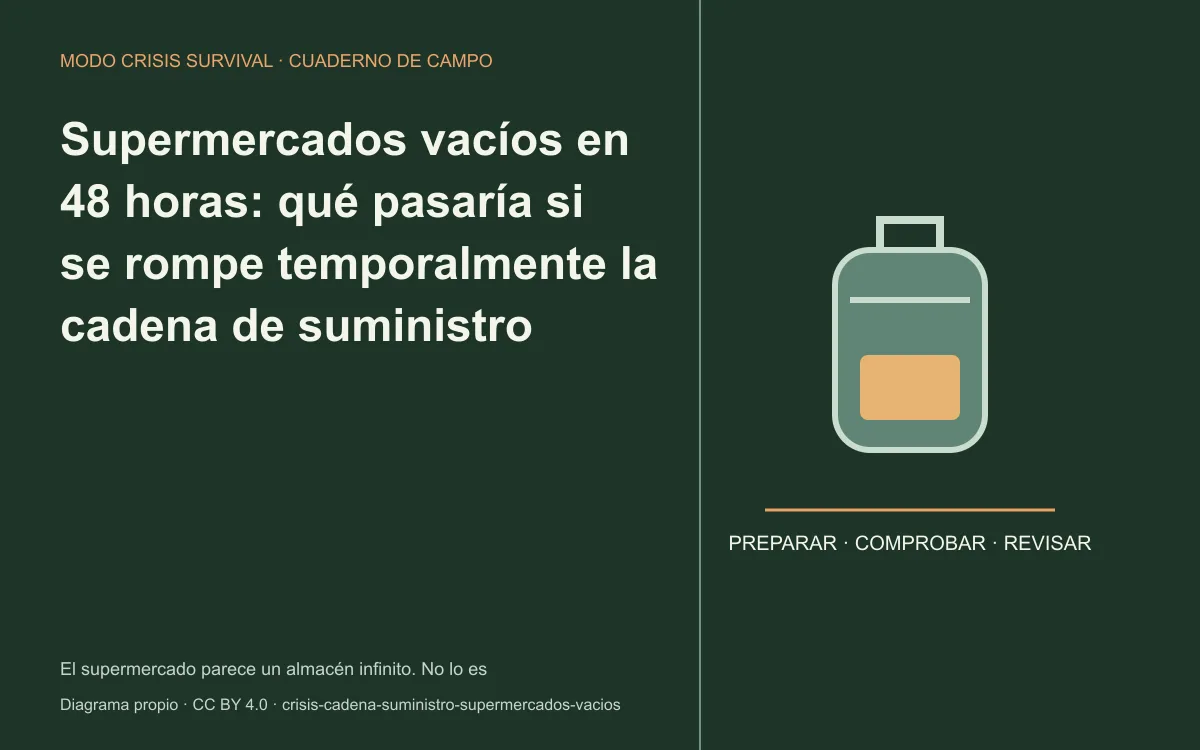
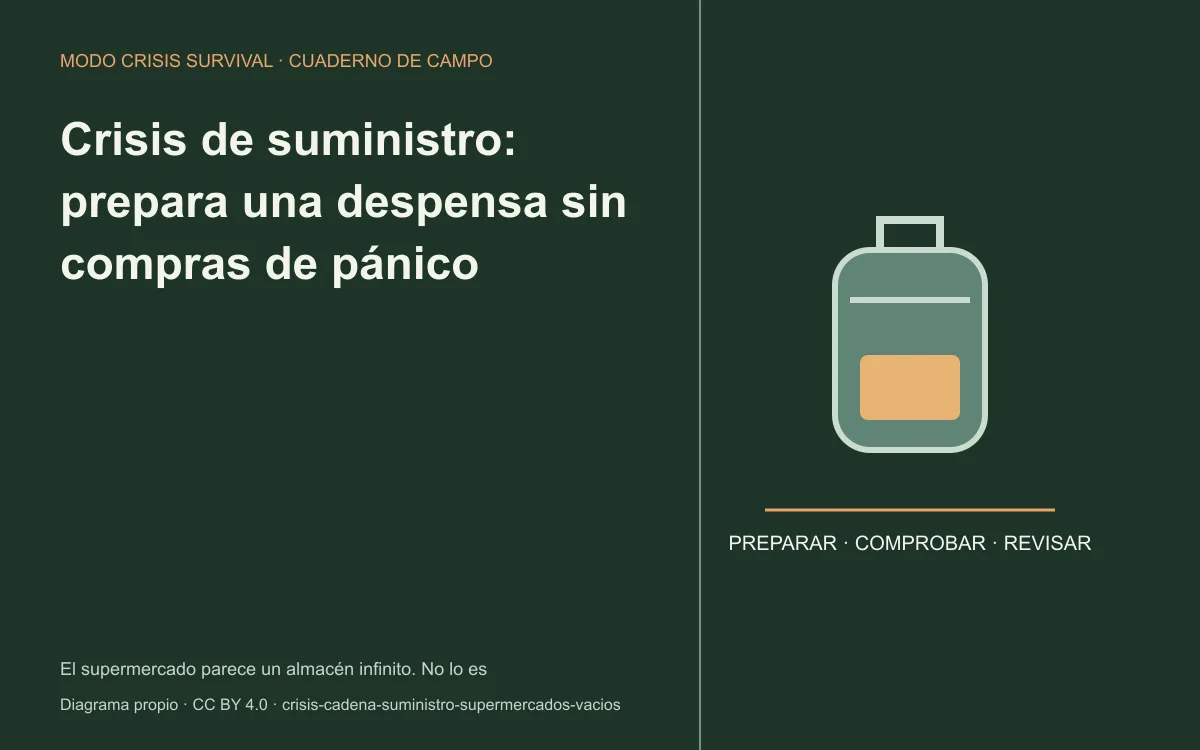
Improve eight continuity guides and replace predictive headlines

Changed region(s): [[0.0308, 0.3373, 0.555, 0.46], [0.0308, 0.2453, 0.5242, 0.3067], [0.0308, 0.1533, 0.5242, 0.2147]]

diff --git a/src/content/step-two-continuity.ts b/src/content/step-two-continuity.ts
@@ -1,0 +1,106 @@
+import type { BlogSection } from './blog';
+import type { Expansion } from './growth-revisions';
+const s = (heading: string, body: string, extra: Partial<BlogSection> = {}): BlogSection => ({ heading, body, ...extra });
+export const stepTwoContinuity: Record<string, Expansion> = {
+  'ciberataque-masivo-servicios-esenciales': {
+    description: 'Ciberataque o caída de servicios: prepara contactos, recuperación y alternativas offline. No confundas una avería con un ataque confirmado.',
+    sections: [
+      s('Una copia que existe no siempre puede recuperarse', 'Guardar archivos en otra carpeta del mismo dispositivo no elimina todas sus dependencias. Describe qué protege la copia y qué necesita para abrirse: soporte, cuenta, clave y programa. No concentres documentos sensibles y credenciales en un archivo sin una protección apropiada.\n\nPrueba recuperación con un documento inventado y conserva el resultado. Una sincronización puede reflejar cambios o borrados; no la presentes automáticamente como copia independiente. Lee la documentación del servicio y prepara una alternativa adecuada a la información que realmente necesitas, no a toda tu vida digital.'),
+      s('Recuperación de cuentas antes de una incidencia', 'Revisa los métodos que el proveedor permite y qué ocurriría si pierdes el dispositivo habitual. No desactives autenticación multifactor para simplificar la emergencia. Organiza recuperación con las instrucciones del servicio y protege los elementos que permiten acceder.\n\nNo envíes códigos o contraseñas a alguien que contacte diciendo ser soporte. Una caída real puede dar credibilidad a un mensaje falso. Accede desde tu canal conocido y consulta el procedimiento vigente. La preparación reduce incertidumbre, pero no convierte en confiable cualquier ayuda que prometa recuperar la cuenta inmediatamente.'),
+      s('Caso ficticio: el mismo teléfono abre y recupera todo', 'La familia necesita un documento, pero el acceso y la recuperación dependen del teléfono perdido. El archivo estaba guardado en la nube y parecía tener una copia segura. La práctica revela que no se había comprobado la cadena de recuperación.\n\nUsa un archivo ficticio para revisar esa dependencia en condiciones normales. No bloquees una cuenta real, no elimines datos ni simules un ataque. Anota qué soporte alternativo necesitas y qué acceso debe conservar una persona autorizada. La solución no consiste en publicar contraseñas para que todos puedan entrar.'),
+      s('Ficha de dependencia digital', 'La tabla no requiere escribir secretos. Utiliza referencias mínimas y conserva el contenido protegido en un lugar apropiado.', { table: { caption: 'Servicios y alternativas comprobables', headers: ['Tarea', 'Dependencia principal', 'Alternativa que verificar'], rows: [['Contacto', 'Teléfono y acceso al directorio', 'Tarjeta mínima actualizada'], ['Documento', 'Cuenta, conexión y formato', 'Copia apropiada que abre offline'], ['Recuperación', 'Método del proveedor', 'Acceso según instrucciones'], ['Trámite', 'Plataforma disponible', 'Canal oficial y posibilidad de aplazar'], ['Información', 'Mensaje recibido', 'Origen independiente y confirmado']] } }),
+      s('Cuando vuelva el servicio, revisa antes de repetir', 'Una operación que no mostró confirmación puede necesitar consulta de estado antes de intentarla otra vez. Conserva justificantes apropiados sin divulgar datos sensibles. Si el proveedor informa de un incidente de seguridad, sigue su procedimiento desde el canal oficial.\n\nNo cambies configuraciones al azar ni instales un supuesto reparador recibido por mensaje. Registra qué tarea quedó sin alternativa y prepara una corrección concreta. El aprendizaje útil es conocer qué acceso dependía de otro servicio, no afirmar que todo fallo fue un ataque.', { links: [{ label: 'Preparar documentos protegidos', href: '/supervivencia/documentacion-conviene-tener-disponible' }, { label: 'Plan para varios días sin Internet', href: '/supervivencia/7-dias-sin-internet' }] }),
+    ],
+    faq: [{ question: '¿Varias aplicaciones caídas prueban un ciberataque?', answer: 'No. Pueden existir otras causas o dependencias compartidas. Consulta información del proveedor y no atribuyas una causa sin confirmar.' }, { question: '¿Sincronizar es siempre tener una copia independiente?', answer: 'No. Consulta cómo funciona el servicio y prueba recuperación con información ficticia. Define qué fallo protege realmente tu alternativa.' }, { question: '¿Qué guardo en la ficha digital?', answer: 'Referencias de tareas, dependencias y alternativas, no contraseñas ni códigos. Protege lo que permite recuperar acceso.' }],
+  },
+  'crisis-cadena-suministro-supermercados-vacios': {
+    title: 'Crisis de suministro: prepara una despensa sin compras de pánico',
+    seoTitle: 'Crisis de suministro: despensa de emergencia y rotación',
+    excerpt: 'Una falta puntual no anuncia supermercados vacíos en 48 horas. Prepara comidas completas, agua y reposición gradual para las necesidades de tu hogar.',
+    description: 'Crisis de suministro: organiza una despensa rotativa con comidas completas, agua y reposición gradual, sin acaparar ni predecir tiendas vacías.',
+    sections: [
+      s('Cuenta comidas completas antes de contar paquetes', 'Escribe una propuesta para las personas que realmente comen en casa y revisa preparación, agua, utensilios y conservación. No conviertas el número de envases en días de autonomía sin comprobar cómo se utilizan. Un ingrediente puede formar parte de varias comidas sin cubrir por sí solo una necesidad.\n\nAdapta alimentos a preferencias, alergias y necesidades particulares. No pruebes una dieta de emergencia nueva durante una incidencia. Para requerimientos individuales, busca orientación profesional. La despensa debería integrarse en la vida cotidiana y no exigir que la familia tolere productos que nunca utiliza.'),
+      s('Presupuesto gradual sin sacrificar gastos esenciales', 'Selecciona una carencia concreta y valora si puedes cubrirla al reponer la compra habitual. No necesitas un pedido masivo para empezar. Evita endeudarte o reducir otros gastos necesarios por una noticia ambigua. Una referencia de preparación no fija una cantidad comercial obligatoria.\n\nEl espacio también limita la decisión. No bloquees salidas ni guardes alimentos donde no se respetan sus condiciones. Comprar varios meses sin capacidad de conservar o rotar puede producir más desperdicio que margen. La mejora debe responder a una función que puedas mantener.'),
+      s('Caso ficticio: sobra comida seca, falta una cena viable', 'Hay pasta, legumbres secas y arroz, pero todo requiere agua y cocina que no están disponibles. La reserva parece grande; la comida prevista no puede prepararse como se había imaginado. El ejercicio consiste en descubrir esa dependencia antes, con etiquetas y una hoja.\n\nAñade una alternativa apropiada que no dependa de ese mismo paso y revisa el material para abrirla. No resuelvas el ejemplo llevando un hornillo exterior al interior de la vivienda. Tener ingredientes no obliga a improvisar una fuente de calor peligrosa.'),
+      s('Registro de reposición por uso', 'Anota cantidades reales y productos adecuados para tu hogar. No fija raciones universales ni demuestra suficiencia nutricional.', { table: { caption: 'Una despensa que forma parte del consumo habitual', headers: ['Registro', 'Pregunta', 'Acción'], rows: [['Comida prevista', '¿Se puede preparar completa?', 'Revisar dependencias'], ['Producto usado', '¿Cuánto queda realmente?', 'Actualizar y reponer según plan'], ['Fecha y conservación', '¿Qué indica la etiqueta?', 'Ordenar y revisar'], ['Necesidad particular', '¿Lo puede consumir esa persona?', 'Consulta cuando corresponda'], ['Agua y utensilios', '¿Están disponibles?', 'No contarlos por suposición']] } }),
+      s('Reponer después de una incidencia no significa competir', 'Comprueba qué servicio o producto está afectado y qué comunicación responsable existe. Una foto de una estantería no demuestra una falta nacional ni una duración prevista. Evita compartir una predicción que el proveedor no haya confirmado.\n\nSi hay instrucciones sobre compra o reparto, respétalas. Reponer la reserva de manera razonable y progresiva reduce necesidad de compras urgentes posteriores. No persigas el objetivo de llenar todos los espacios ni conviertas una carencia puntual en permiso para acaparar.'),
+      s('La rotación funciona si alguien sabe cómo actualizarla', 'Acuerda quién registra cambios y dónde está el inventario. Si solo una persona lo entiende, otra puede comprar duplicados o consumir recursos que se daban por disponibles. Simplifica categorías y no conviertas la despensa en una tarea administrativa interminable.\n\nDespués de un cambio familiar o de alimentación, revisa las comidas previstas. La lista debe corresponder a las personas actuales. El resultado útil es un margen conocido y mantenible, no una colección de productos etiquetados como supervivencia.', { links: [{ label: 'Alimentos durante un apagón', href: '/supervivencia/gestion-alimentos-sin-electricidad' }, { label: 'Organizar la reserva de agua', href: '/supervivencia/como-guardar-agua-emergencias' }] }),
+    ],
+    faq: [{ question: '¿Hay un plazo universal para que se vacíen supermercados?', answer: 'No. Depende de productos, existencias, demanda y alternativas. Este artículo no anuncia un desabastecimiento en 48 horas.' }, { question: '¿Cómo empiezo con poco presupuesto?', answer: 'Identifica una carencia y valora cubrirla en la reposición habitual sin sacrificar gastos esenciales. Comprueba comidas completas y conservación.' }, { question: '¿Muchos paquetes equivalen a autonomía?', answer: 'No por sí solos. Revisa personas, preparación, agua, utensilios y necesidades particulares.' }],
+  },
+  'desinformacion-emergencias-deepfakes-alertas-falsas': {
+    description: 'Desinformación en emergencias: revisa origen, fecha, zona e instrucción. Ejemplos de mensajes dudosos y cómo corregir un reenvío sin crear rumores.',
+    sections: [
+      s('Guarda el contexto que permite verificar', 'Una captura recortada puede perder fecha, autor y ámbito. Antes de compartir un mensaje dudoso, busca la publicación responsable y conserva el enlace completo cuando exista. No añadas una urgencia que el comunicado no contiene ni cambies una recomendación por una orden.\n\nSi no puedes confirmar origen, describe esa limitación. Decir «no está verificado» no vuelve inocuo reenviarlo masivamente. Una solicitud de desplazamiento, dinero o datos merece especial cuidado. Utiliza un canal conocido para contrastar, sin retrasar protección cuando hay peligro inmediato.'),
+      s('Ejemplo ficticio: tres mensajes, una sola fuente', 'Un audio llega de un familiar, un grupo vecinal y una cuenta de red social. Parece tener tres confirmaciones. Al revisar, los tres copian el mismo contenido anónimo. No has encontrado fuentes independientes, solo tres vías de distribución.\n\nPide el comunicado original y comprueba ámbito y hora. Si existe una instrucción oficial auténtica y urgente, no esperes a que circulen más versiones para atenderla. La verificación ayuda a distinguir mensajes dudosos; no debe convertirse en una regla para ignorar las autoridades.'),
+      s('Una corrección breve puede frenar la repetición', 'Si compartiste información incorrecta, avisa a las mismas personas con una explicación clara y la fuente responsable cuando esté disponible. Evita repetir íntegro el contenido alarmista como título de la corrección. No culpes a quien lo recibió ni finjas que nunca lo enviaste.\n\nLa práctica preventiva consiste en revisar un mensaje ficticio en casa y explicar qué falta. No generes una falsa alerta para ver cuántas personas la creen. El objetivo es reducir ruido y mejorar acceso a instrucciones, no poner a prueba a familiares con un engaño.', { links: [{ label: 'Conocer una orden de confinamiento', href: '/supervivencia/confinamiento-emergencia-casa-que-hacer' }, { label: 'Preparar información sin conexión', href: '/supervivencia/7-dias-sin-internet' }] }),
+    ],
+    faq: [{ question: '¿Tres reenvíos cuentan como tres fuentes?', answer: 'No cuando copian el mismo origen. Busca el comunicado responsable y distingue distribución de confirmación independiente.' }, { question: '¿Debo esperar dos fuentes para atender una alerta oficial?', answer: 'No retrases una instrucción urgente auténtica ni protección ante peligro inmediato. La comprobación se dirige a mensajes dudosos.' }, { question: '¿Cómo corrijo un mensaje falso que reenvié?', answer: 'Comunica la corrección a quienes lo recibieron y enlaza la fuente responsable cuando exista. No amplifiques de nuevo la afirmación alarmista.' }],
+  },
+  'primeras-24-horas-gran-emergencia': {
+    title: 'Primeras 24 horas de una emergencia: prioridades y plan familiar',
+    seoTitle: 'Primeras 24 horas de una emergencia: qué priorizar',
+    description: 'Primeras 24 horas de una emergencia: peligro, personas, instrucciones y recursos. La cronología es orientativa, no una orden de esperar.',
+    sections: [
+      s('Una hoja compartida evita trabajar con versiones distintas', 'Cuando sea seguro, anota hechos observados, instrucción responsable y dudas relevantes. No necesitas un diario completo del incidente. La hoja debe permitir que otra persona comprenda qué se sabe y qué decisión sigue pendiente.\n\nDistingue una hora real de un dato aproximado. Si recibes una actualización, comunica qué cambia y a qué zona se refiere. No mantengas una medida anterior por costumbre ni uses un rumor sobre duración para justificar consumo o desplazamiento. Si existe una prioridad urgente, atenderla prevalece sobre escribir.'),
+      s('Caso ficticio: el inventario dice que hay material, pero está fuera', 'La linterna fue prestada y la batería está en el coche de alguien que no ha llegado. La lista antigua sigue contando ambos. El grupo descubre que inventario y disponibilidad no eran lo mismo. No necesita una compra inmediata de todo, sino localizar funciones realmente cubiertas y buscar ayuda apropiada si falta algo esencial.\n\nEn la revisión posterior, registra material retirado y responsables de reposición. Evita contar el mismo objeto en varios lugares simultáneamente. Una práctica preventiva de acceso puede revelar ese fallo sin producir una emergencia real.'),
+      s('Organiza tareas que alguien pueda comprender', '«Encargarse de todo» no permite saber qué debe hacerse. Cuando las condiciones lo permitan, acuerda tareas concretas y apoyo: localizar un contacto, consultar un canal o comprobar un recurso. No asignes a menores decisiones de seguridad ni a una persona una maniobra que no está preparada para realizar.\n\nLas capacidades y necesidades pueden cambiar durante el incidente. Comunica una limitación sin convertirla en fracaso. Si una tarea requiere atención sanitaria o intervención profesional, no la sustituye un responsable nominal en una hoja.'),
+      s('Registro breve para una situación prolongada', 'La tabla ordena información después de atender prioridades inmediatas. No prescribe tiempos ni autoriza permanecer en un lugar inseguro.', { table: { caption: 'Información que cambia decisiones', headers: ['Dato', 'Qué distinguir', 'Siguiente comprobación'], rows: [['Personas', 'Estado conocido y ayuda necesaria', 'Comunicar cambios relevantes'], ['Lugar', 'Condición observada e instrucción', 'Seguir indicaciones actualizadas'], ['Recursos', 'Disponible y previsto', 'Acceso y reposición'], ['Comunicación', 'Mensaje confirmado o duda', 'Fuente, hora y zona'], ['Apoyo', 'Acuerdo aceptado y pendiente', 'Canal apropiado']] } }),
+      s('Después del primer día, no conviertas la duración en una garantía', 'Que hayan pasado muchas horas no demuestra que el peligro haya terminado o que el lugar sea adecuado. Revisa instrucciones y necesidades actuales. La cronología de este artículo ayuda a pensar; no obliga a esperar hasta un punto para pedir ayuda.\n\nCuando puedas revisar con calma, elige tres dificultades concretas y cómo corregirlas. Si solo registras «faltó preparación», será difícil cambiar algo. Una luz inaccesible, una copia antigua o un contacto ausente permiten acciones comprobables. El aprendizaje debe reducir decisiones pendientes, no añadir culpa.', { links: [{ label: 'Ensayo familiar sin riesgos reales', href: '/supervivencia/simulacro-familiar-emergencia-30-minutos' }, { label: 'Plan de cuidados esenciales', href: '/supervivencia/medicamentos-tratamientos-emergencias' }] }),
+    ],
+    faq: [{ question: '¿La cronología indica cuándo pedir ayuda?', answer: 'No. Es orientativa y no establece plazos de espera. Ante una emergencia o necesidad urgente utiliza el canal apropiado y sigue instrucciones.' }, { question: '¿P.A.R.A. es un protocolo oficial?', answer: 'No. Es un recordatorio editorial del sitio. No sustituye formación, primeros auxilios ni indicaciones de Protección Civil.' }, { question: '¿Qué reviso después?', answer: 'Dificultades concretas, una acción para cada una y cómo comprobarla en condiciones normales. Evita culpas o listas sin responsables.' }],
+  },
+  'tarjetas-cajeros-pagos-no-funcionan': {
+    description: 'Tarjetas y cajeros no funcionan: distingue incidencias, revisa operaciones y prepara alternativas limitadas. Evita fraude y retiradas por miedo.',
+    sections: [
+      s('Describe qué falla antes de cambiar todos tus medios de pago', 'Puede ser una tarjeta, una aplicación, un terminal o una conexión local. Pregunta al establecimiento qué opciones admite y consulta a tu entidad por el canal habitual cuando corresponda. No concluyas que existe un fallo nacional porque una operación dé error.\n\nTampoco atribuyas el problema al comercio sin información. Registra lo necesario para revisar el pago y evita divulgar fotografías con datos sensibles. Una descripción precisa ayuda a consultar la incidencia y a distinguir alternativas que comparten el mismo punto de fallo.'),
+      s('Una reserva prudente responde a gastos, no a titulares', 'Haz una lista de necesidades que no podrías aplazar en una interrupción temporal. Considera lo que ya tienes preparado y qué comercios o servicios podrían estar disponibles, sin contar su apertura como una garantía. No existe una cifra adecuada a todas las familias en esta guía.\n\nValora capacidad económica y riesgos de guardar efectivo. No retires cantidades excesivas ni reduzcas gastos esenciales por miedo. El ejercicio debe ayudar a reconocer una alternativa proporcionada, no recomendar una operación financiera individual. Ante dudas sobre tu situación o productos bancarios, consulta asesoramiento apropiado.'),
+      s('Caso hipotético: la pantalla falla, el cargo es incierto', 'El terminal no muestra confirmación y el cliente piensa repetir varias veces. Antes de convertir el error en una cadena de operaciones, consulta estado y procedimiento con establecimiento o entidad. Conserva el justificante disponible y distingue pago fallido de pago pendiente de comprobación.\n\nNo aceptes un enlace inesperado que promete anular cargos a cambio de credenciales. Accede por un canal conocido. La incertidumbre puede requerir espera o consulta, no una nueva operación inmediata. Este caso ilustra organización; no determina el estado de un pago real.'),
+      s('Teléfonos oficiales sin claves en la misma hoja', 'Prepara una referencia de contacto obtenida del canal de la entidad y actualízala cuando cambie. No escribas contraseñas, códigos de un solo uso o datos completos de tarjetas en una lista que pueda perderse.\n\nSi alguien llama diciendo conocer la incidencia, contrasta por una vía independiente. No uses únicamente un número o enlace que esa persona te proporcione. Ninguna noticia sobre apagón justifica entregar secretos a quien contacte contigo. Consulta al banco cómo actuar ante mensajes o movimientos sospechosos.'),
+      s('Tabla de alternativas por dependencia', 'No constituye recomendación de inversión ni cantidad de efectivo. Sirve para entender qué problema aborda cada opción.', { table: { caption: 'Medios de pago y límites', headers: ['Opción', 'Qué revisar', 'Qué no garantiza'], rows: [['Otra tarjeta', 'Entidad, estado y aceptación', 'Que funcione el terminal'], ['Móvil o reloj', 'Energía, configuración y compatibilidad', 'Independencia del comercio'], ['Efectivo limitado', 'Custodia y gastos esenciales', 'Apertura o cambio disponible'], ['Aplazar una compra', 'Si la necesidad permite esperar', 'Resolver necesidades urgentes'], ['Consultar a la entidad', 'Canal conocido y referencia', 'Respuesta inmediata en toda incidencia']] } }),
+      s('Reducir compras urgentes también reduce esta dependencia', 'Una reserva doméstica adecuada puede evitar salir a comprar cada necesidad básica durante una interrupción. No se trata de eliminar pagos digitales, sino de no depender de una operación concreta para todas las tareas del día.\n\nRevisa agua, alimentos y tratamientos con los criterios apropiados. No acumules productos ni medicación para compensar una preocupación bancaria. La preparación debe ser proporcionada a tu hogar y mantener gastos esenciales y límites sanitarios visibles.'),
+      s('Un ejercicio de papel con resultado útil', 'Anota una compra esencial, un fallo posible y una alternativa que realmente puedas preparar. Después marca qué depende de que un establecimiento esté abierto o de una red disponible. No retires dinero ni hagas pagos de ensayo para provocar el caso.\n\nSi descubres una carencia, puede bastar con guardar un teléfono oficial o revisar justificantes. No hace falta cambiar todas las cuentas. El resultado es entender una dependencia y saber cómo consultar, no prometer que podrás pagar cualquier cosa en cualquier emergencia.', { links: [{ label: 'Preparar la despensa sin acaparar', href: '/supervivencia/crisis-cadena-suministro-supermercados-vacios' }, { label: 'Distinguir fallos y ciberataques', href: '/supervivencia/ciberataque-masivo-servicios-esenciales' }] }),
+    ],
+    faq: [{ question: '¿Un pago fallido significa que he perdido el saldo?', answer: 'No demuestra eso. Consulta estado de la operación con el establecimiento o entidad y no generalices desde un error de pantalla.' }, { question: '¿Móvil, reloj y tarjeta son tres sistemas independientes?', answer: 'Pueden compartir terminal, conexión o servicio. Revisa qué dependencia aborda realmente cada alternativa.' }, { question: '¿Qué cantidad de efectivo recomienda esta guía?', answer: 'No fija una cifra individual. Valora necesidades, posibilidades y riesgos de custodia de forma proporcionada, sin retiradas por miedo.' }],
+  },
+  '7-dias-sin-internet': {
+    description: 'Varios días sin Internet: prueba contactos, archivos y mapas offline. Distingue datos, telefonía y batería sin desconectar comunicaciones necesarias.',
+    sections: [
+      s('Desconectar datos no reproduce todos los tipos de fallo', 'Una prueba en casa puede mostrar si un archivo está realmente guardado, pero no simula todas las incidencias de red o del dispositivo. Anota qué has desconectado y qué función comprobaste. No presentes el resultado como una garantía de comunicación durante cualquier emergencia.\n\nEl modo avión puede interrumpir llamadas y mensajes ordinarios; no lo utilices mientras esperas ayuda o una comunicación importante. Practica solo en condiciones adecuadas y restablece la conexión después. Aprender a distinguir ajustes es más útil que recomendar apagarlo todo sin conocer la tarea.'),
+      s('Un archivo local también necesita formato y acceso', 'El documento puede estar descargado y requerir un programa, una clave o una sesión que no has preparado. Comprueba la apertura completa, no solo la miniatura. Utiliza datos ficticios para la prueba y protege la información real.\n\nUna copia no sustituye automáticamente originales o trámites. Escribe para qué consulta la guardas y qué límite de validez tiene. No acumules documentos privados por si acaso: selecciona lo necesario y conoce quién puede acceder.'),
+      s('Kit offline por tareas', 'No necesitas copiar toda la nube. Esta tabla sirve para elegir funciones y descubrir preparación pendiente.', { table: { caption: 'Información disponible sin descargarla durante la incidencia', headers: ['Tarea', 'Preparación', 'Límite'], rows: [['Contactar', 'Número y alternativa escritos', 'Leerlo no permite llamar sin red'], ['Orientarse', 'Mapa y referencias comprobados', 'No muestra todos los cambios recientes'], ['Consultar', 'Archivo y programa apropiados', 'La copia puede no servir en un trámite'], ['Coordinar', 'Acuerdo familiar conocido', 'No obliga a cruzar una zona peligrosa'], ['Informarse', 'Canales y radio si procede', 'La infraestructura puede fallar']] } }),
+      s('Caso ficticio: el teléfono funciona, pero el documento no abre', 'El grupo conserva batería y puede leer contactos, pero una reserva de viaje solo está en un correo que necesita acceso al servidor. El problema no es tener un teléfono inútil; es una tarea concreta que no se había preparado.\n\nLa revisión posterior puede ser guardar una copia apropiada y conocer sus límites. No hace falta cambiar de aplicación por una promesa genérica de offline. Comprueba después con un documento inventado que la solución elimina la dependencia observada.'),
+      s('Una alternativa en papel también necesita mantenimiento', 'Una tarjeta evita batería y conexión, pero puede estar anticuada, perderse o resultar ilegible. Revisa referencias y protege los datos mínimos. No pongas secretos de acceso junto a información que podrías enseñar para pedir ayuda.\n\nSi actualizas un contacto, comprueba las copias autorizadas. Si cambias un punto de encuentro, explica condiciones y alternativas. La preparación combina soportes distintos cuando aportan una función real; no declara que el papel sea infalible ni que todo deba permanecer digital.'),
+      s('Mantén claros los servicios que sí necesitan conexión', 'Una consulta meteorológica nueva, streaming o una gestión bancaria pueden requerir un servicio externo. Disponer del último dato guardado no lo convierte en información actual. Observa fecha y procedencia antes de utilizarlo para una decisión.\n\nLa app puede conservar determinados recursos y consultar otros por Internet. Revisa la documentación de la versión y permisos, sin atribuir a todas las funciones la misma condición. Una actualización puede cambiar requisitos; repite las comprobaciones importantes cuando corresponda.'),
+      s('Tu primera tarea de esta semana', 'Selecciona un contacto, un mapa y un documento ficticio. Comprueba acceso en un lugar conocido y anota una dependencia que siga pendiente. No hagas una ruta desconocida sin conexión para poner a prueba el resultado.\n\nResuelve esa carencia con una acción pequeña y revisa la mejora. La práctica útil no consiste en pasar siete días incomunicado por desafío. Consiste en conocer qué tareas puedes continuar, qué límites tienen y cuándo debes buscar apoyo.', { links: [{ label: 'Qué debe ofrecer una app offline', href: '/supervivencia/que-debe-incluir-aplicacion-supervivencia-offline' }, { label: 'Preparar mapas y GPS', href: '/supervivencia/gps-movil-sin-internet-mapas-offline' }] }),
+    ],
+    faq: [{ question: '¿Sin Internet desaparecen todos mis contactos?', answer: 'No necesariamente. Comprueba qué datos están guardados localmente y qué funciones dependen de un servicio externo.' }, { question: '¿Un archivo descargado siempre abre offline?', answer: 'No lo supongas. Puede requerir programa, clave o acceso adicional. Comprueba apertura completa con un archivo ficticio.' }, { question: '¿Debo pasar siete días desconectado como prueba?', answer: 'No. Realiza comprobaciones breves y seguras sin comprometer comunicaciones o cuidados. El escenario no es un desafío de aislamiento.' }],
+  },
+  'tormenta-solar-extrema-como-prepararse': {
+    description: 'Tormenta solar extrema: distingue fenómeno, efectos y avisos. Prepara navegación e información alternativas sin comprar protección milagrosa.',
+    sections: [
+      s('Observación, pronóstico e impacto no son lo mismo', 'Un dato observado describe una medición; un pronóstico considera una evolución posible; un impacto necesita información sobre sistemas afectados. No conviertas los tres en una sola afirmación de que tu ciudad perderá servicios. Busca qué ha comunicado realmente el organismo y qué instrucciones locales existen.\n\nLa preparación doméstica puede mejorar sin interpretar por tu cuenta escalas técnicas. Si un servicio está interrumpido, consulta al operador y organiza la necesidad concreta. No atribuyas toda incidencia a actividad solar porque coincida con una noticia.'),
+      s('La escala de una noticia no describe todos los teléfonos', 'Los efectos dependen del fenómeno y del sistema expuesto. Un titular sobre radio de alta frecuencia no demuestra que cada red móvil haya caído. Una aurora tampoco permite deducir por sí sola el estado de la instalación eléctrica doméstica.\n\nNo compres productos que prometan protección total sin documentación verificable. El nombre solar en un anuncio puede referirse a captación de energía, no a resistencia frente a meteorología espacial. Define una función y comprueba sus límites antes de asociarla al escenario.'),
+      s('Caso hipotético: hay mapa, falta una posición fiable', 'La cartografía está descargada, pero la posición que muestra el dispositivo no coincide con referencias conocidas. El mapa sigue aportando información espacial; no repara el posicionamiento. No sigas una flecha contradictoria para demostrar que la preparación offline funciona.\n\nEn condiciones normales aprende referencias y uso de cartografía apropiada. Practica en un entorno conocido y con formación cuando haga falta. Durante una incidencia, evita recorridos que excedan capacidades y solicita ayuda si corresponde. El respaldo no consiste en otra aplicación que dependa del mismo dato.'),
+      s('Revisión de alternativas por función', 'La tabla plantea comprobaciones preventivas y no interpreta una alerta técnica ni prescribe desconexiones.', { table: { caption: 'Dependencias que puedes revisar sin predecir una tormenta', headers: ['Función', 'Alternativa posible', 'Comprobación'], rows: [['Orientación', 'Mapa y referencias conocidas', 'Saber leerlos sin una flecha'], ['Información', 'Canal responsable y receptor preparado', 'Escucha y alimentación'], ['Contacto', 'Acuerdo y tarjeta mínima', 'Acceso sin un único dispositivo'], ['Iluminación', 'Luz independiente localizada', 'Estado y alimentación'], ['Cuidados', 'Plan profesional específico', 'No improvisar respaldo']] } }),
+      s('La radio es otro sistema, no un sistema inmune', 'Distingue radiodifusión, radio por Internet y transmisión. Sus dependencias son diferentes y algunas comunicaciones pueden verse afectadas por clima espacial. No prometas que una banda o aparato funcionará en cualquier episodio.\n\nComprueba recepción habitual y alimentación antes de necesitarlo. Guarda una ficha y conoce el origen de la información que escuchas. Una emisión no necesariamente contiene una instrucción oficial para tu localidad. Mantén contexto y evita transformar un comentario general en una orden doméstica.'),
+      s('No conviertas un pronóstico en una manipulación eléctrica', 'Este artículo no autoriza a abrir equipos, alterar protecciones o desconectar sistemas críticos. Sigue instrucciones de autoridades, operadores y fabricantes ante una incidencia. Si necesitas respaldo de instalaciones o equipos médicos, requiere planificación competente.\n\nLa primera mejora puede ser un cable probado o un contacto accesible. No necesitas una compra específica para cada tipo de amenaza. Preparar funciones compartidas reduce dependencias, sin prometer que controlarás los efectos de cualquier fenómeno.'),
+      s('Lee una noticia con tres preguntas', '¿Qué fenómeno describe? ¿Qué efecto está confirmado o se considera posible? ¿Qué organismo informa y qué acción corresponde a tu zona? Puedes practicar con una noticia histórica sin difundirla como alerta vigente.\n\nSi no encuentras una respuesta, conserva la duda y busca la fuente primaria. No inventes una hora de llegada o duración para completar el relato. La meteorología espacial merece atención técnica; el plan familiar necesita información comprobada y acciones proporcionadas.', { links: [{ label: 'Reconocer rumores de emergencia', href: '/supervivencia/desinformacion-emergencias-deepfakes-alertas-falsas' }, { label: 'Mapas offline y sus límites', href: '/supervivencia/gps-movil-sin-internet-mapas-offline' }] }),
+    ],
+    faq: [{ question: '¿Una noticia solar confirma un apagón en mi ciudad?', answer: 'No. Distingue fenómeno, pronóstico e impacto. Consulta organismos responsables e instrucciones locales sin atribuir una causa no confirmada.' }, { question: '¿Un mapa offline arregla el GPS?', answer: 'No. Cartografía y posicionamiento son funciones distintas. Prepara referencias y no sigas un dato que contradice el terreno.' }, { question: '¿Hay que desconectar equipos médicos por un pronóstico?', answer: 'No por esta lectura. Sigue el plan profesional y las indicaciones responsables; no suspendas sistemas críticos como experimento.' }],
+  },
+  'emergencia-trabajo-volver-casa': {
+    description: 'Emergencia en el trabajo: decidir si salir, esperar y comunicarte. Prepara acuerdos, alternativas y un kit proporcionado sin caminar a cualquier precio.',
+    sections: [
+      s('El plan del centro y el plan familiar deben conocerse', 'Consulta en condiciones normales las instrucciones de tu lugar de trabajo y cómo comunica incidencias. No sustituyas el procedimiento del edificio por una lista doméstica. Prepara además un acuerdo familiar que reconozca que quizá no puedas desplazarte o responder inmediatamente.\n\nExplica quién puede necesitar ayuda y qué alternativa existe si tú no estás. No asignes una tarea a un contacto sin confirmar que la acepta. El plan reduce incertidumbre; no garantiza que todas las comunicaciones o rutas permanezcan disponibles.'),
+      s('Dos caminos dibujados pueden compartir un mismo fallo', 'Comprueba si las alternativas utilizan el mismo puente, túnel, tramo o medio de transporte. No basta con cambiar el primer cruce para eliminar la dependencia. Identifica también lugares donde consultar información, sin declarar cualquier edificio un refugio disponible.\n\nLa revisión se hace con cartografía y fuentes adecuadas antes del incidente. Durante una emergencia, una línea guardada no prevalece sobre cortes o instrucciones. No inventes un atajo por terreno desconocido para que el plan tenga dos opciones en la hoja.'),
+      s('Caso ficticio: caminar parece más rápido que esperar', 'El transporte está interrumpido y alguien comparte una estimación de regreso a pie. La cifra puede no contemplar restricciones, temperatura, luz, movilidad o seguridad del recorrido. Antes de asumirla como solución, reconoce esas condiciones y consulta la instrucción responsable.\n\nLa espera en un lugar indicado puede ser más apropiada que moverte hacia una zona afectada. Si existe una necesidad urgente, comunícala al canal correspondiente. No conviertas llegar pronto en la única medida de una buena decisión ni te obligues a caminar para demostrar independencia.'),
+      s('Qué guardar en el trabajo y qué no puedes suponer', 'Revisa normas del centro, espacio y mantenimiento del material permitido. Cuenta lo disponible hoy, no lo que llevaste un día y luego usaste. Un cable sin batería o una linterna sin alimentación dejan una función incompleta.\n\nPara tratamientos o necesidades particulares, conserva las condiciones que indicó el profesional y protege información. No acumules medicamentos de prescripción por una lista genérica. Incluye una revisión tras usos y préstamos para que el kit no sea otra reserva ficticia.'),
+      s('Tabla de decisiones previas al desplazamiento', 'No autoriza una ruta ni sustituye instrucciones del centro o de emergencias. Organiza qué debes conocer.', { table: { caption: 'Antes de intentar volver', headers: ['Pregunta', 'Referencia preparada', 'Límite'], rows: [['¿Es seguro salir?', 'Procedimiento y aviso responsable', 'Puede cambiar con el incidente'], ['¿Dónde está la familia?', 'Acuerdo y contacto', 'No lo deduces de un silencio'], ['¿La ruta está disponible?', 'Fuentes actuales y alternativas', 'El mapa guardado no confirma apertura'], ['¿Puedo realizarla?', 'Movilidad y condiciones previstas', 'La calculadora no valora todo'], ['¿Qué apoyo necesito?', 'Contacto que acepta la tarea', 'No prometer llegada inmediata']] } }),
+      s('Comunicación breve sin publicar movimientos privados', 'Si puedes comunicar, explica dónde estás, tu estado y el acuerdo que sigues. No difundas horarios, documentación o ubicaciones familiares en un grupo abierto. Mantén la información necesaria entre personas apropiadas.\n\nCuando el canal falle, aplica el acuerdo conocido compatible con instrucciones oficiales, no una búsqueda improvisada de señal. La ausencia de respuesta no confirma daño ni seguridad. Si aparece una emergencia que necesita asistencia, utiliza el canal correspondiente y comunica hechos.'),
+      s('El trayecto habitual sirve para una revisión preventiva', 'En un día normal observa dónde cambia el medio de transporte, qué referencias reconoces y qué dependencias has dado por seguras. No necesitas caminar una distancia excesiva ni atravesar pasos difíciles para evaluar límites. Puedes revisar cartografía y consultar procedimientos sin salir del centro.\n\nRegistra una carencia concreta: desconoces el canal del trabajo, falta el contacto alternativo o el mapa no cubre toda el área. Resolver una de ellas mejora el plan sin comprar una mochila más grande. El siguiente paso debe responder al fallo observado.'),
+      s('Después de la incidencia, revisa el acuerdo de apoyo', 'Anota qué información llegó a tiempo, qué tarea quedó ambigua y qué recursos no estaban disponibles. No juzgues a otra persona por no cumplir un desplazamiento imposible. Cambia el plan donde las condiciones reales mostraron una dependencia.\n\nComparte la actualización y comprueba que todos entienden las alternativas. Un acuerdo que solo conoce quien lo redactó no permite coordinarse mejor. Prepararte desde el trabajo significa reconocer límites de distancia, ayuda y procedimientos, no convertir cada regreso en una marcha de supervivencia.', { links: [{ label: 'Preparar rutas con mapas', href: '/supervivencia/rutas-evacuacion-mapas-offline' }, { label: 'Plan familiar con responsables', href: '/supervivencia/como-crear-plan-familiar-emergencia' }] }),
+    ],
+    faq: [{ question: '¿Debo salir hacia casa en cuanto falle el transporte?', answer: 'No automáticamente. Consulta instrucciones, condiciones y plan del centro. Puede ser más apropiado esperar en un lugar indicado.' }, { question: '¿Dos rutas garantizan una salida?', answer: 'No. Pueden compartir dependencias y quedar afectadas por cambios. Revisa condiciones actuales y no uses el mapa como autorización.' }, { question: '¿Cómo reviso el trayecto sin un esfuerzo excesivo?', answer: 'Con cartografía, procedimientos y observación cotidiana en condiciones normales. No necesitas probar tus límites físicos ni atravesar riesgos.' }],
+  },
+};

diff --git a/src/content/preparedness-scenarios.ts b/src/content/preparedness-scenarios.ts
@@ -83,7 +83,7 @@ export const preparednessScenarios: BlogPost[] = [
       { heading: '¿Volver andando? Primero calcula, después decide', body: 'Distancia, pendiente, temperatura, luz, movilidad y calzado influyen en el esfuerzo. Un tiempo estimado no autoriza una ruta ni detecta humo, agua o cortes. Practica recorridos conocidos solo en condiciones normales y sin exponerte. Si el desplazamiento no es razonable, el plan necesita una alternativa de espera y asistencia, no más determinación.', links: [{ label: 'Estimar tiempo de ruta y sus límites', href: '/supervivencia/calculadora-velocidad-necesaria-ruta#calculadora' }] },
       { heading: 'El kit compacto que tiene sentido en tu trabajo', body: 'Adapta el material al espacio permitido y a tus circunstancias, sin duplicar una mochila enorme. Elige cosas que sabes utilizar y revisa periódicamente su estado.', bullets: ['Agua y alimento adecuado a tus necesidades.', 'Cable compatible y batería externa cargada.', 'Linterna pequeña y contactos escritos.', 'Necesidades médicas planificadas con profesionales.', 'Calzado apropiado cuando el habitual no permita caminar cómodamente.'], links: equipment },
       { heading: 'Lo que no arregla llevar más equipo', body: 'Una mochila no convierte una carretera cortada en un paso seguro. Un móvil cargado no garantiza cobertura. La información y la decisión de esperar pueden ser más útiles que salir con muchos objetos. Comunica tu situación cuando puedas sin saturar canales ni distraerte mientras te desplazas.' },
-      { heading: 'Tu tarea de mañana: una hoja, tres decisiones', body: 'Anota dónde buscarías instrucciones, cómo avisarías a tu familia y qué harías si no puedes volver. Comenta el plan con quienes dependen de ti. Esta hoja complementa la guía del kit de oficina: una organiza decisiones y la otra ayuda a preparar material.', links: [{ label: 'Qué llevar en un kit de oficina', href: '/supervivencia/mochila-emergencia-trabajo-oficina' }] }, app,
+      { heading: 'Tu tarea de mañana: una hoja, tres decisiones', body: 'Anota dónde buscarías instrucciones, cómo avisarías a tu familia y qué harías si no puedes volver. Comenta el plan con quienes dependen de ti. Completa la revisión del material con una checklist adaptada a tus circunstancias.', links: [{ label: 'Preparar mi checklist', href: '/checklists' }] }, app,
     ],
     sources: [{ title: 'Protección Civil: recomendaciones según el riesgo', url: 'https://www.proteccioncivil.es/gestion-riesgos/recomendaciones' }],
     relatedLinks: [{ label: 'Cuando la orden es confinarse', href: '/supervivencia/confinamiento-emergencia-casa-que-hacer' }, { label: 'Plan familiar de emergencia', href: '/supervivencia/como-crear-plan-familiar-emergencia' }],

diff --git a/app/supervivencia/[slug]/page.tsx b/app/supervivencia/[slug]/page.tsx
@@ -198,7 +198,7 @@ export default async function ArticlePage({ params }: { params: Promise<{ slug: 
               );
             })}
             {post.slug === "plantas-comestibles-y-peligrosas-que-se-pueden-confundir" ? <PlantPhotoGallery /> : null}
-            {post.faq?.length ? <section className="article-faq" id="preguntas-frecuentes"><h2>Preguntas frecuentes</h2>{post.faq.map(item => <details key={item.question}><summary>{item.question}</summary><p>{item.answer}</p></details>)}</section> : null}
+            {post.faq?.length ? <section className="article-faq" id="preguntas-frecuentes"><h2>Preguntas frecuentes</h2>{post.faq.map(item => <details key={item.question}><summary><h3>{item.question}</h3></summary><p>{item.answer}</p></details>)}</section> : null}
             {post.slug === "5-nudos-basicos-de-supervivencia-que-merece-la-pena-practicar" ? <p><Link href="/nudos">Consultar las 19 fichas de nudos de la aplicación, adaptadas para la web</Link></p> : null}
             {post.relatedLinks?.length ? (
               <nav className="editorial-resource-links" aria-label="Recursos relacionados con este artículo">

diff --git a/src/content/growth-revisions.ts b/src/content/growth-revisions.ts
@@ -4,7 +4,7 @@ import { coreRevisions } from './growth-core-revisions';
 import { equipmentRevisions } from './growth-equipment-revisions';
 import { fieldRevisions } from './growth-field-revisions';
 import { stepTwoRevisions } from './step-two-revisions';
-export type Expansion = { sections: BlogSection[]; faq: NonNullable<BlogPost['faq']>; description: string; replace?: boolean; sources?: BlogPost['sources']; warning?: string };
+export type Expansion = { sections: BlogSection[]; faq: NonNullable<BlogPost['faq']>; description: string; replace?: boolean; sources?: BlogPost['sources']; warning?: string; title?: string; seoTitle?: string; excerpt?: string };
 const s = (heading: string, body: string, extra: Partial<BlogSection> = {}): BlogSection => ({ heading, body, ...extra });
 export const growthRevisions: Record<string, Expansion> = {
   ...technicalRevisions,

diff --git a/app/growth.css b/app/growth.css
@@ -14,6 +14,7 @@
 .article-table-scroll caption { padding:12px; text-align:left; font-weight:700; }
 .article-faq details { border-top:1px solid #899779; padding:16px 0; }
 .article-faq summary { cursor:pointer; font-weight:700; padding:4px 0; }
+.article-faq summary h3 { display:inline; font:inherit; margin:0; color:inherit; }
 .growth-entry-band { background:#243625; color:#f8f6ed; border-top:1px solid #859074; border-bottom:1px solid #859074; }
 .growth-entry-band h2, .growth-entry-band p, .growth-entry-band a { color:#f8f6ed; }
 .growth-entry-band .journal-section { padding-top:32px; padding-bottom:32px; }

diff --git a/src/content/blog.ts b/src/content/blog.ts
@@ -1807,6 +1807,9 @@ for (const [slug, revision] of Object.entries(growthRevisions)) {
   Object.assign(post, { sections: revision.replace ? revision.sections : [...post.sections, ...revision.sections], faq: revision.faq, metaDescription: revision.description, updatedAt: '2026-10-14' });
   if (revision.sources) post.sources = revision.sources;
   if (revision.warning) post.warning = revision.warning;
+  if (revision.title) post.title = revision.title;
+  if (revision.seoTitle) post.seoTitle = revision.seoTitle;
+  if (revision.excerpt) post.excerpt = revision.excerpt;
 }
 
 for (const post of blogPosts) {

diff --git a/src/content/step-two-revisions.ts b/src/content/step-two-revisions.ts
@@ -1,2 +1,3 @@
 import { stepTwoCare } from './step-two-care';
-export const stepTwoRevisions = { ...stepTwoCare };
+import { stepTwoContinuity } from './step-two-continuity';
+export const stepTwoRevisions = { ...stepTwoCare, ...stepTwoContinuity };
